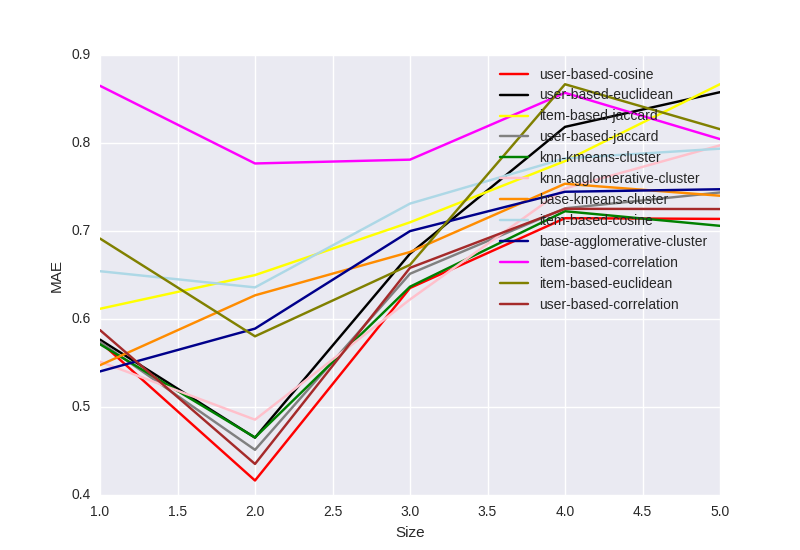
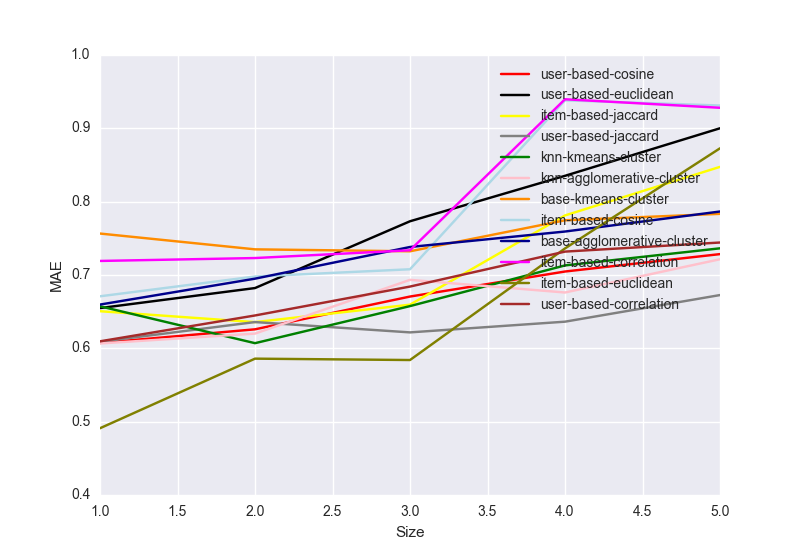
Final results

diff --git a/main.py b/main.py
@@ -44,7 +44,7 @@ row_step = rows / step
 column_step = cols / step
 
 # predicting ratings
-number_of_predictions = 50
+number_of_predictions = 100
 algorithms = {
     'user-based-euclidean': [],
     'user-based-jaccard': [],
@@ -74,7 +74,7 @@ results = {
 
 def perform_analysis(matrix, n):
     user_based_matrix = matrix
-    item_based_matrix = sort(user_based_matrix.copy().T)
+    item_based_matrix = user_based_matrix.copy().T
 
     pairs, ratings = get_data_for_testing(user_based_matrix, number_of_predictions)
     predicted_ratings = copy.deepcopy(algorithms)
@@ -196,4 +196,4 @@ for key, value in results.iteritems():
     # save RMSE results
     save_graphic_results('./images/' + key + '_rmse.png', rmse, 'Size', 'RMSE', step)
     # save execution results
-    save_graphic_results('./images/' + key + '_execution.png', execution, 'Size', 'Average execution time (s)', step)
+    save_graphic_results('./images/' + key + '_execution.png', execution, 'Size', 'Average execution time', step)
